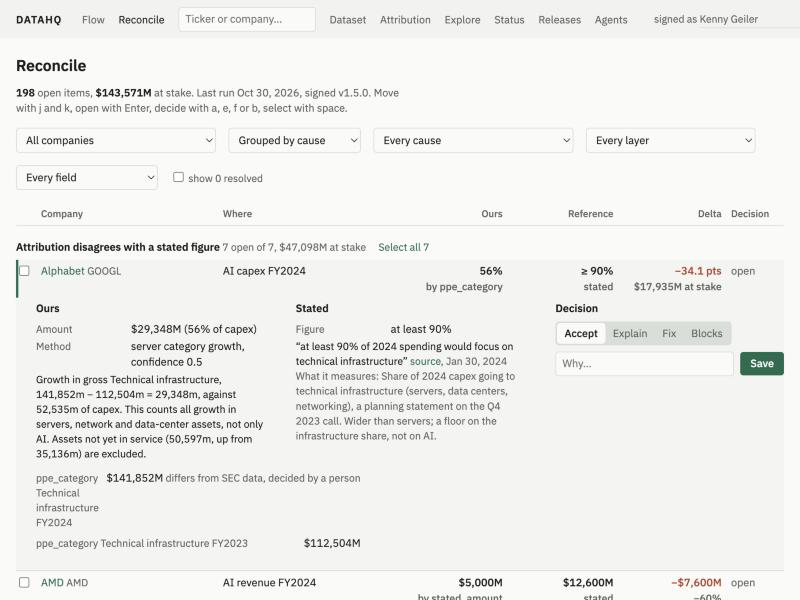
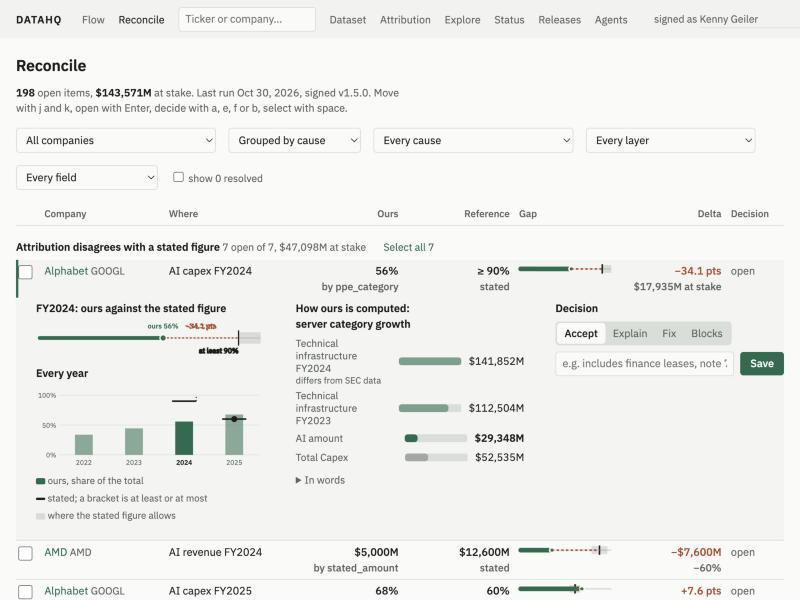
Reconcile: ours against the stated figure as charts, words behind a toggle
Kenny asked for data diffs, not prose. Each row's evidence is now a gauge
(ours as a bar with a dot, the stated figure as a tick with a band for at
least / at most, the gap dashed in red; a small one in every row's Gap
column), a year chart of ours against every stated figure for the company
(bracket markers for floors and ceilings, the row's year highlighted), the
method's inputs, AI amount and total as bars on one scale, cell against tag
against release as bars with the fact across years as paired bars, and
before and after as bars for moves and findings. The basis, the quote and
the finding's message sit behind an "In words" toggle. /api/v1/reconcile
rows carry a series per row (ledger/workbench.py); tests cover it.

diff --git a/ledger/app.html b/ledger/app.html
@@ -193,6 +193,50 @@
   .btn, .seg { transition: transform 120ms cubic-bezier(.23,1,.32,1); }
   .btn:active, .seg:active { transform: scale(.97); }
   .bulk { padding: .6rem .9rem; background: var(--row); border-radius: 6px; }
+  .evgrid { grid-template-columns: minmax(20rem, 26rem) minmax(16rem, 1fr) minmax(16rem, 22rem); }
+  @media (max-width: 70rem) { .evgrid { grid-template-columns: repeat(auto-fit, minmax(min(100%, 18rem), 1fr)); } }
+  .evl { min-width: 0; }
+  svg.gauge { width: 100%; height: auto; display: block; overflow: visible; }
+  svg.gauge.mini { width: 7.5rem; height: .9rem; vertical-align: middle; }
+  td.gapc, th.gapc { width: 8rem; }
+  svg.gauge .track { stroke: var(--faint); stroke-width: 2; }
+  svg.gauge .band { fill: color-mix(in srgb, var(--fg) 12%, transparent); }
+  svg.gauge .ref { stroke: var(--fg); stroke-width: 2; }
+  svg.gauge line.ours { stroke: var(--accent); stroke-width: 6; stroke-linecap: round; }
+  svg.gauge circle.ours { fill: var(--accent); stroke: var(--bg); stroke-width: 2; }
+  svg.gauge .gap { stroke: var(--bad); stroke-width: 2; stroke-dasharray: 3 3; }
+  svg.gauge .lbl { font-size: 11px; fill: var(--muted); }
+  svg.gauge .lbl.ours { fill: var(--accent); font-weight: 600; }
+  svg.gauge .lbl.ref { fill: var(--fg); }
+  svg.gauge .lbl.gap { fill: var(--bad); font-weight: 600; }
+  svg.years { width: 100%; height: auto; display: block; }
+  svg.years .grid { stroke: var(--faint); stroke-width: 1; }
+  svg.years .lbl { font-size: 10.5px; fill: var(--muted); }
+  svg.years .lbl.hl { fill: var(--fg); font-weight: 600; }
+  svg.years rect.ours { fill: var(--accent); opacity: .55; }
+  svg.years rect.ours.hl { opacity: 1; }
+  svg.years rect.ref { fill: var(--muted); opacity: .6; }
+  svg.years .mark { stroke: var(--fg); stroke-width: 2.5; fill: var(--fg); }
+  svg.years .mark.thin { stroke-width: 1.5; stroke-dasharray: 2 3; }
+  .pbars { display: grid; gap: .3rem; }
+  .pb { display: grid; grid-template-columns: minmax(6rem, 9rem) minmax(5rem, 1fr) auto; gap: .6rem; align-items: center; font-size: .84rem; }
+  .pb .l { color: var(--muted); font-size: .8rem; line-height: 1.25; }
+  .pb .track { height: 10px; background: var(--faint); border-radius: 2px; overflow: hidden; }
+  .pb .track i { display: block; height: 100%; background: var(--accent); opacity: .55; }
+  .pb.ours .track i { opacity: 1; }
+  .pb.ref .track i { background: var(--fg); opacity: .55; }
+  .pb.tot .track i { background: var(--muted); opacity: .45; }
+  .pb .v { text-align: right; font-variant-numeric: tabular-nums; white-space: nowrap; }
+  .pb.ours .v { font-weight: 600; }
+  .gapline { margin-top: .4rem; font-size: .9rem; }
+  .lg { display: flex; flex-wrap: wrap; gap: .3rem 1rem; font-size: .76rem; color: var(--muted); margin-top: .4rem; }
+  .lg i { display: inline-block; width: 12px; height: 8px; border-radius: 2px; vertical-align: middle; }
+  .lg i.ours { background: var(--accent); }
+  .lg i.ref { background: var(--muted); }
+  .lg i.mark { background: var(--fg); height: 3px; }
+  .lg i.band { background: color-mix(in srgb, var(--fg) 12%, transparent); }
+  .words summary { cursor: pointer; margin-top: .6rem; }
+  .cellmeta { margin-bottom: .4rem; }
   /* Explore */
   .exc select, .exc input { max-width: 15rem; }
   .plot { min-height: 400px; margin-top: .6rem; }
@@ -978,6 +1022,72 @@ const RES_HELP = {accept: 'the number is right as it stands', explain: 'right, w
 let FOCUS_KEY = null;  // the row to focus after a save re-renders the page
 const num = (r, v) => (v == null ? '—' : r.measure === 'share' ? pct(v) : usd(v));
 const signed = (r, v) => (v == null ? '—' : (v < 0 ? '−' : '+') + (r.measure === 'share' ? `${(100 * Math.abs(v)).toFixed(1)} pts` : usd(Math.abs(v))));
+// ── charts for the evidence: ours against the stated figure, with the fewest words ──
+const NS = 'http://www.w3.org/2000/svg';
+const sv = (tag, attrs = {}, ...kids) => { const el = document.createElementNS(NS, tag); for (const [k, v] of Object.entries(attrs)) if (v != null) el.setAttribute(k, v); for (const c of kids.flat()) if (c != null) el.append(c instanceof Node ? c : document.createTextNode(String(c))); return el; };
+const fmt = (r, v) => (r.measure === 'share' ? pct(v) : usd(v));
+// a gauge: one scale, ours as a bar with a dot, the stated figure as a band (at least / at most) or a tick (equal), the gap in red
+function gauge(r, mini) {
+  const W = mini ? 120 : 360, H = mini ? 14 : 52, y = mini ? 7 : 26, pad = mini ? 2 : 6;
+  const share = r.measure === 'share';
+  const max = share ? 1 : Math.max(Math.abs(r.ours || 0), Math.abs(r.reference || 0)) * 1.15 || 1;
+  const x = (v) => pad + (W - 2 * pad) * Math.max(0, Math.min(1, Math.abs(v) / max));
+  const ref = r.reference, ours = r.ours;
+  const bandFrom = r.relation === 'ge' ? ref : r.relation === 'le' ? 0 : ref, bandTo = r.relation === 'ge' ? max : r.relation === 'le' ? ref : ref;
+  const inside = ours != null && ref != null && (r.relation === 'ge' ? ours >= ref : r.relation === 'le' ? ours <= ref : Math.abs(ours - ref) <= 0.1 * Math.abs(ref));
+  const g = sv('svg', {viewBox: `0 0 ${W} ${H}`, class: 'gauge' + (mini ? ' mini' : ''), role: 'img', 'aria-label': `Ours ${fmt(r, ours)} against ${({ge: 'at least ', le: 'at most '})[r.relation] || ''}${fmt(r, ref)}`});
+  g.append(sv('line', {x1: pad, x2: W - pad, y1: y, y2: y, class: 'track'}));
+  if (ref != null) {
+    if (r.relation === 'eq') g.append(sv('rect', {x: x(ref * 0.9), y: y - (mini ? 5 : 9), width: Math.max(2, x(ref * 1.1) - x(ref * 0.9)), height: mini ? 10 : 18, class: 'band'}), sv('line', {x1: x(ref), x2: x(ref), y1: y - (mini ? 6 : 12), y2: y + (mini ? 6 : 12), class: 'ref'}));
+    else g.append(sv('rect', {x: x(bandFrom), y: y - (mini ? 5 : 9), width: Math.max(2, x(bandTo) - x(bandFrom)), height: mini ? 10 : 18, class: 'band'}), sv('line', {x1: x(ref), x2: x(ref), y1: y - (mini ? 6 : 12), y2: y + (mini ? 6 : 12), class: 'ref'}));
+  }
+  if (ours != null) {
+    g.append(sv('line', {x1: pad, x2: x(ours), y1: y, y2: y, class: 'ours'}), sv('circle', {cx: x(ours), cy: y, r: mini ? 3 : 5, class: 'ours'}));
+    if (ref != null && !inside) { const edge = r.relation === 'ge' ? ref : r.relation === 'le' ? ref : ref; g.append(sv('line', {x1: x(ours), x2: x(edge), y1: y, y2: y, class: 'gap'})); }
+  }
+  if (!mini) {
+    if (ours != null) g.append(sv('text', {x: x(ours), y: y - 15, 'text-anchor': ours > max * 0.85 ? 'end' : 'middle', class: 'lbl ours'}, `ours ${fmt(r, ours)}`));
+    if (ref != null) g.append(sv('text', {x: x(ref), y: y + 24, 'text-anchor': ref > max * 0.85 ? 'end' : ref < max * 0.12 ? 'start' : 'middle', class: 'lbl ref'}, `${({ge: 'at least ', le: 'at most '})[r.relation] || 'stated '}${fmt(r, ref)}`));
+    if (ours != null && ref != null && !inside && Math.abs(x(ours) - x(ref)) >= 80) g.append(sv('text', {x: (x(ours) + x(ref)) / 2, y: y - 15, 'text-anchor': 'middle', class: 'lbl gap'}, signed(r, r.delta)));
+  }
+  return g;
+}
+// horizontal bars on one scale: [{label, value, cls, note}]
+function pairBars(items, measure) {
+  const vals = items.map((i) => Math.abs(i.value || 0)), max = Math.max(1e-9, ...vals);
+  const f = (v) => (v == null ? '—' : measure === 'share' ? pct(v) : usd(v));
+  return h('div', {class: 'pbars'}, items.map((i) => h('div', {class: 'pb ' + (i.cls || '')}, h('span', {class: 'l', title: i.title || null}, i.label, i.note ? h('span', {class: 'muted', style: 'display:block;font-size:.72rem'}, i.note) : ''), h('span', {class: 'track'}, h('i', {style: `width:${(100 * Math.abs(i.value || 0) / max).toFixed(1)}%`})), h('span', {class: 'v'}, f(i.value)))));
+}
+// years across: ours as bars (share, or amount), every stated figure as a marker: a tick for equal, a bracket for at least / at most
+function yearChart(series, {share, highlight, pair} = {}) {
+  const W = 360, H = 130, L = 36, R = 8, T = 14, B = 22;
+  const val = (s) => (pair ? s.value : share ? s.share : s.amount);
+  const refv = (s) => (pair ? s.reference : null);
+  const allVals = series.flatMap((s) => [val(s), refv(s), ...(s.refs || []).filter((r) => (r.measure === 'share') === !!share).map((r) => r.reference)]).filter((v) => v != null);
+  if (!allVals.length) return h('p', {class: 'muted small'}, 'No years to show.');
+  const max = share ? 1 : Math.max(...allVals.map(Math.abs)) * 1.1;
+  const n = series.length, slot = (W - L - R) / n, bw = Math.min(28, slot * (pair ? 0.3 : 0.55));
+  const yv = (v) => T + (H - T - B) * (1 - Math.max(0, Math.min(1, Math.abs(v) / max)));
+  const g = sv('svg', {viewBox: `0 0 ${W} ${H}`, class: 'years', role: 'img', 'aria-label': 'Ours by year with every stated figure'});
+  for (const t of (share ? [0, .5, 1] : [0, .5, 1].map((k) => k * max))) g.append(sv('line', {x1: L, x2: W - R, y1: yv(t), y2: yv(t), class: 'grid'}), sv('text', {x: L - 4, y: yv(t) + 4, 'text-anchor': 'end', class: 'lbl'}, share ? (t ? pct(t) : '0%') : '$' + compact(t)));
+  series.forEach((s, i) => {
+    const cx = L + slot * (i + 0.5), v = val(s);
+    const hl = s.period === highlight;
+    g.append(sv('text', {x: cx, y: H - 6, 'text-anchor': 'middle', class: 'lbl' + (hl ? ' hl' : '')}, s.period.replace('FY', '')));
+    if (v != null) g.append(sv('rect', {x: pair ? cx - bw - 1 : cx - bw / 2, y: yv(v), width: bw, height: yv(0) - yv(v), class: 'ours' + (hl ? ' hl' : '')}, sv('title', {}, `${s.period}: ours ${share ? pct(v) : usd(v)}${s.method ? ', ' + (METHOD[s.method] || s.method) : ''}`)));
+    if (pair && refv(s) != null) g.append(sv('rect', {x: cx + 1, y: yv(refv(s)), width: bw, height: yv(0) - yv(refv(s)), class: 'ref'}, sv('title', {}, `${s.period}: tag ${usd(refv(s))}`)));
+    for (const r of (s.refs || []).filter((r) => (r.measure === 'share') === !!share)) {
+      const y = yv(r.reference);
+      if (r.relation === 'eq') g.append(sv('line', {x1: cx - bw / 2 - 5, x2: cx + bw / 2 + 5, y1: y, y2: y, class: 'mark'}), sv('circle', {cx, cy: y, r: 3.5, class: 'mark'}));
+      else g.append(sv('line', {x1: cx - bw / 2 - 5, x2: cx + bw / 2 + 5, y1: y, y2: y, class: 'mark'}), sv('line', {x1: cx + bw / 2 + 5, x2: cx + bw / 2 + 5, y1: y, y2: r.relation === 'ge' ? T : yv(0), class: 'mark thin'}));
+      g.append(sv('title', {}, `${s.period}: stated ${({ge: 'at least ', le: 'at most '})[r.relation] || ''}${share ? pct(r.reference) : usd(r.reference)}`));
+    }
+  });
+  return g;
+}
+const legend = (...items) => h('div', {class: 'lg'}, items.map(([cls, t]) => h('span', {}, h('i', {class: cls}), ' ', t)));
+const words = (...kids) => h('details', {class: 'words'}, h('summary', {class: 'muted small'}, 'In words'), h('div', {class: 'small', style: 'margin-top:.4rem'}, kids));
+
 async function reconcilePage(view, qs) {
   const q = parseQ(qs || '');
   const scope = q.scope || 'all', group = q.group || 'cause', fCause = q.cause || '', fLayer = q.layer || '', fField = q.field || '', withResolved = q.resolved === '1';
@@ -1011,11 +1121,11 @@ async function reconcilePage(view, qs) {
   const ordered = [...rows].sort((a, b) => (group === 'cause' ? CAUSE_ORDER.indexOf(a.cause) - CAUSE_ORDER.indexOf(b.cause) || b.dollars - a.dollars || a.ticker.localeCompare(b.ticker) : a.name.localeCompare(b.name) || CAUSE_ORDER.indexOf(a.cause) - CAUSE_ORDER.indexOf(b.cause) || b.dollars - a.dollars));
   for (const r of ordered) groups.set(keyOf(r), [...(groups.get(keyOf(r)) || []), r]);
   const tbody = h('tbody');
-  const head = h('tr', {}, h('th', {style: 'width:1.6rem'}, h('span', {class: 'sr'}, 'Select')), h('th', {}, group === 'cause' ? 'Company' : 'Cause'), h('th', {}, 'Where'), h('th', {class: 'n'}, 'Ours'), h('th', {class: 'n'}, 'Reference'), h('th', {class: 'n'}, 'Delta'), h('th', {}, 'Decision'));
+  const head = h('tr', {}, h('th', {style: 'width:1.6rem'}, h('span', {class: 'sr'}, 'Select')), h('th', {}, group === 'cause' ? 'Company' : 'Cause'), h('th', {}, 'Where'), h('th', {class: 'n'}, 'Ours'), h('th', {class: 'n'}, 'Reference'), h('th', {class: 'gapc'}, 'Gap'), h('th', {class: 'n'}, 'Delta'), h('th', {}, 'Decision'));
   for (const [g, list] of groups) {
     const label = group === 'cause' ? list[0].cause_label.replace(/:.*$/, '') : `${list[0].name} ${list[0].ticker}`;
     const open = list.filter((r) => !r.resolution || r.resolution.state === 'fix' || r.resolution.state === 'blocks');
-    tbody.append(h('tr', {class: 'grp'}, h('td', {colspan: 7}, h('span', {class: 'gl'}, label), h('span', {class: 'muted small'}, ` ${int(open.length)} open of ${int(list.length)}${list.some((r) => r.dollars) ? `, ${usd(list.reduce((s, r) => s + r.dollars, 0))} at stake` : ''}`),
+    tbody.append(h('tr', {class: 'grp'}, h('td', {colspan: 8}, h('span', {class: 'gl'}, label), h('span', {class: 'muted small'}, ` ${int(open.length)} open of ${int(list.length)}${list.some((r) => r.dollars) ? `, ${usd(list.reduce((s, r) => s + r.dollars, 0))} at stake` : ''}`),
       open.length > 1 ? h('button', {type: 'button', class: 'small', style: 'margin-left:1rem', onclick: () => { for (const r of open) selected.add(r.key); paint(); }}, `Select all ${int(open.length)}`) : '')));
     for (const r of list) {
       const i = trs.length;
@@ -1028,7 +1138,7 @@ async function reconcilePage(view, qs) {
         h('td', {}, cb), h('td', {}, first), h('td', {}, where),
         h('td', {class: 'n'}, num(r, r.ours), r.ours_label ? h('div', {class: 'muted small'}, r.ours_label) : ''),
         h('td', {class: 'n'}, r.reference == null ? h('span', {class: 'muted'}, '—') : [({ge: '≥ ', le: '≤ '})[r.relation] || '', num(r, r.reference)], r.ref_label && r.reference != null ? h('div', {class: 'muted small'}, r.ref_label) : ''),
-        h('td', {class: 'n'}, delta), h('td', {}, res));
+        h('td', {class: 'gapc'}, r.ours != null && r.reference != null ? gauge(r, true) : ''), h('td', {class: 'n'}, delta), h('td', {}, res));
       trs.push({tr, r, detail: null});
       tbody.append(tr);
     }
@@ -1039,7 +1149,7 @@ async function reconcilePage(view, qs) {
     const t = trs[i]; cur = i; paintCur();
     if (t.detail && force !== true) { t.detail.remove(); t.detail = null; t.tr.setAttribute('aria-expanded', 'false'); return; }
     if (t.detail) return;
-    t.detail = h('tr', {class: 'ev'}, h('td', {colspan: 7}, evidence(t.r)));
+    t.detail = h('tr', {class: 'ev'}, h('td', {colspan: 8}, evidence(t.r)));
     t.tr.after(t.detail); t.tr.setAttribute('aria-expanded', 'true');
   }
   function keys(e, i) {
@@ -1071,33 +1181,42 @@ async function reconcilePage(view, qs) {
     return h('div', {class: 'resform'}, h('div', {class: 'segs', role: 'group', 'aria-label': 'Decision'}, btns), reason, save, status);
   }
   function evidence(r) {
-    const E = r.evidence || {}, left = [], right = [];
-    const kv = (k, v) => h('div', {class: 'kv2'}, h('span', {class: 'muted small'}, k), h('span', {}, v));
+    const E = r.evidence || {}, S = r.series || [], left = [], mid = [];
     if (r.cause === 'reference_disagrees') {
-      left.push(h('h3', {}, 'Ours'), kv('Amount', [usd(E.ours_amount), E.ours_share != null ? ` (${pct(E.ours_share)} of capex)` : '']), kv('Method', `${METHOD[r.ours_label.replace('by ', '')] || r.ours_label.replace('by ', '')}, confidence ${E.confidence ?? '—'}`), E.basis ? h('p', {class: 'small brk'}, E.basis) : '');
-      if (E.inputs && E.inputs.length) left.push(h('div', {class: 'inputs'}, h('div', {class: 'muted small'}, 'Inputs'), E.inputs.map((i) => h('div', {class: 'kv2'}, h('span', {class: 'small'}, i.what), h('span', {}, i.value != null ? usd(i.value) : i.share != null ? pct(i.share) : h('span', {class: 'muted'}, 'words only'), i.check && i.check !== 'agree' ? h('div', {class: 'muted small'}, XBRL[i.check] || i.check) : '')))));
-      right.push(h('h3', {}, 'Stated'), kv('Figure', [({ge: 'at least ', le: 'at most '})[r.relation] || '', num(r, r.reference)]), E.quote ? h('p', {class: 'small'}, `“${E.quote}” `, E.url ? h('a', {href: E.url, target: '_blank', rel: 'noopener'}, 'source') : '', E.source_date ? h('span', {class: 'muted'}, `, ${day(E.source_date)}`) : '') : '', E.reference_basis ? h('p', {class: 'muted small brk'}, `What it measures: ${E.reference_basis}`) : '');
+      left.push(h('h3', {}, `${r.period}: ours against the stated figure`), gauge(r), h('h3', {style: 'margin-top:.9rem'}, 'Every year'), yearChart(S, {share: r.measure === 'share', highlight: r.period}),
+        legend(['ours', 'ours' + (r.measure === 'share' ? ', share of the total' : '')], ['mark', 'stated; a bracket is at least or at most'], ['band', 'where the stated figure allows']));
+      const inputs = (E.inputs || []).map((i) => ({label: i.what, title: i.field, value: i.value, cls: 'in', note: i.check && i.check !== 'agree' ? 'differs from SEC data' : ''}));
+      const yr = S.find((s) => s.period === r.period) || {};
+      mid.push(h('h3', {}, `How ours is computed: ${METHOD[(r.ours_label || '').replace('by ', '')] || r.ours_label}`),
+        pairBars([...inputs, {label: 'AI amount', value: E.ours_amount, cls: 'ours'}, yr.total != null ? {label: `Total ${LABEL[r.field.replace('ai_', '')] || r.field.replace('ai_', '')}`, value: yr.total, cls: 'tot'} : null].filter(Boolean)),
+        words(E.basis ? h('p', {class: 'brk'}, E.basis) : '', E.quote ? h('p', {style: 'margin-top:.4rem'}, `“${E.quote}” `, E.url ? h('a', {href: E.url, target: '_blank', rel: 'noopener'}, 'source') : '', E.source_date ? h('span', {class: 'muted'}, `, ${day(E.source_date)}`) : '') : '', E.reference_basis ? h('p', {class: 'muted', style: 'margin-top:.4rem'}, E.reference_basis) : ''));
     } else if (r.cause === 'fact_differs') {
       const c = E.cell;
-      left.push(h('h3', {}, 'The cited cell'), c ? [kv('Cell', h('b', {}, c.cell_text)), kv('Row', c.row_label), kv('Column', (c.column_label || '').replaceAll(' | ', ' ')), kv('Table', c.table_id)] : h('p', {class: 'muted small'}, 'No citation on record.'),
-        E.png ? h('img', {src: E.png, alt: `Screenshot of the cited cell ${c ? c.cell_text : ''}`, loading: 'lazy', class: 'shot'}) : '', E.url ? h('a', {href: E.url, target: '_blank', rel: 'noopener', class: 'small'}, 'Open the 10-K') : '');
-      right.push(h('h3', {}, 'The filing’s tag'), kv('XBRL', usd(r.reference)), E.release_value != null ? kv(`In ${d.release}`, usd(E.release_value)) : '', E.used_by && E.used_by.length ? kv('Feeds', E.used_by.map((u) => `${LABEL[u.field] || u.field} ${u.period} ${usd(u.ai_amount)} (${METHOD[u.method] || u.method})`).join('; ')) : kv('Feeds', 'no attribution'),
-        h('p', {class: 'muted small'}, 'Usually a definition: which table or total the tag measures. A definition is applied every run.'), h('a', {href: '#attribution', class: 'small'}, 'The model'));
+      left.push(h('h3', {}, `${r.period}: the cited cell against the filing’s tag`),
+        pairBars([{label: 'Cited cell', value: r.ours, cls: 'ours'}, {label: 'XBRL tag', value: r.reference, cls: 'ref'}, E.release_value != null ? {label: `In ${d.release}`, value: Number(E.release_value), cls: 'tot'} : null].filter(Boolean)),
+        h('div', {class: 'gapline'}, h('span', {class: 'delta bad'}, signed(r, r.delta)), r.delta_pct != null ? h('span', {class: 'muted small'}, ` ${r.delta_pct < 0 ? '−' : '+'}${(100 * Math.abs(r.delta_pct)).toFixed(1)}%`) : ''),
+        S.length > 1 ? [h('h3', {style: 'margin-top:.9rem'}, 'Every year, cell against tag'), yearChart(S, {pair: true, highlight: r.period}), legend(['ours', 'cited cell'], ['ref', 'XBRL tag'])] : '');
+      mid.push(h('h3', {}, 'The cell'), c ? h('div', {class: 'cellmeta'}, h('b', {}, c.cell_text), h('span', {class: 'muted small'}, ` row “${c.row_label}”, column “${(c.column_label || '').replaceAll(' | ', ' ')}”, ${c.table_id}`)) : h('p', {class: 'muted small'}, 'No citation on record.'),
+        E.png ? h('img', {src: E.png, alt: `Screenshot of the cited cell ${c ? c.cell_text : ''}`, loading: 'lazy', class: 'shot'}) : '',
+        E.used_by && E.used_by.length ? [h('h3', {style: 'margin-top:.8rem'}, 'Feeds'), pairBars(E.used_by.map((u) => ({label: `${LABEL[u.field] || u.field} ${u.period}`, value: u.ai_amount, cls: 'ours', note: METHOD[u.method] || u.method})))] : '',
+        h('div', {class: 'row', style: 'margin-top:.6rem;gap:.8rem'}, E.url ? h('a', {href: E.url, target: '_blank', rel: 'noopener', class: 'small'}, 'Open the 10-K') : '', h('a', {href: '#attribution', class: 'small'}, 'The model')));
     } else if (r.cause === 'attribution_moved') {
-      left.push(h('h3', {}, 'Before the load'), kv('Method', METHOD[E.before[0]] || E.before[0] || '—'), kv('Amount', usd(E.before[1])));
-      right.push(h('h3', {}, 'After'), kv('Method', METHOD[E.after[0]] || E.after[0] || '—'), kv('Amount', usd(E.after[1])), h('a', {href: `#data?t=${r.ticker}&f=ai_capex,capex`, class: 'small'}, 'The dataset'));
+      left.push(h('h3', {}, `${r.period}: before and after the load`), pairBars([{label: `Before, ${METHOD[E.before[0]] || E.before[0] || '—'}`, value: E.before[1], cls: 'ref'}, {label: `After, ${METHOD[E.after[0]] || E.after[0] || '—'}`, value: E.after[1], cls: 'ours'}]),
+        h('div', {class: 'gapline'}, h('span', {class: 'delta'}, signed(r, r.delta))));
+      mid.push(h('a', {href: `#data?t=${r.ticker}&f=ai_capex,capex`, class: 'small'}, 'The dataset'));
     } else if (r.cause === 'fact_changed') {
-      left.push(h('h3', {}, 'Now'), kv('Value', usd(r.ours)), E.dimension ? kv('Dimension', E.dimension) : '');
-      right.push(h('h3', {}, `In ${E.release || 'the release'}`), kv('Value', usd(r.reference)), h('p', {class: 'muted small'}, 'Ships in the next release; the change note lists it.'));
+      left.push(h('h3', {}, `${r.period}: now against ${E.release || 'the release'}`), pairBars([{label: 'Now', value: r.ours, cls: 'ours'}, {label: E.release || 'Release', value: r.reference, cls: 'ref'}]), h('div', {class: 'gapline'}, h('span', {class: 'delta'}, signed(r, r.delta))));
+      mid.push(h('p', {class: 'muted small'}, 'Ships in the next release; the change note lists it.'));
     } else if (r.cause === 'finding_unconfirmed' || r.cause === 'blocked') {
-      left.push(h('h3', {}, r.cause_label), h('p', {class: 'small brk'}, E.message || ''), E.size != null && E.kind === 'jump' ? kv('Size', `${Number(E.size).toFixed(1)}×`) : E.size != null && E.kind === 'restated' ? kv('Size', pct(E.size)) : '');
-      right.push(h('a', {href: `#data?t=${r.ticker}&f=${r.field || 'capex'},capex`, class: 'small'}, 'The dataset, with every citation'));
+      if (r.measure) left.push(h('h3', {}, r.cause_label.replace(/:.*$/, '')), pairBars([{label: r.ref_label || 'before', value: r.reference, cls: 'ref'}, {label: r.ours_label || 'after', value: r.ours, cls: 'ours'}]), h('div', {class: 'gapline'}, h('span', {class: 'delta'}, signed(r, r.delta)), E.kind === 'jump' && E.size != null ? h('span', {class: 'muted small'}, ` ${Number(E.size).toFixed(1)}×`) : ''));
+      if (S.length > 1) left.push(h('h3', {style: 'margin-top:.9rem'}, `${LABEL[r.field] || r.field} by year`), yearChart(S, {pair: true, highlight: r.period}));
+      mid.push(words(h('p', {class: 'brk'}, E.message || '')), h('a', {href: `#data?t=${r.ticker}&f=${r.field || 'capex'},capex`, class: 'small'}, 'The dataset, with every citation'));
     } else if (r.cause === 'new_filing') {
       left.push(h('h3', {}, `${E.form} filed ${day(E.filed)}`), h('a', {href: E.url, target: '_blank', rel: 'noopener', class: 'small'}, 'Open at the SEC'));
-      right.push(h('a', {href: '#run', class: 'small'}, 'Run it'));
+      mid.push(h('a', {href: '#run', class: 'small'}, 'Run it'));
     }
     const resBox = h('div', {}, h('h3', {}, 'Decision'), r.resolution ? h('p', {class: 'small', style: 'margin-bottom:.5rem'}, `${RES_LABEL[r.resolution.state]} by ${r.resolution.by}, ${day(r.resolution.at)}: ${r.resolution.reason}`) : '', resolutionForm(r));
-    return h('div', {class: 'evgrid'}, h('h2', {class: 'sr'}, 'Evidence and decision'), h('div', {}, left), h('div', {}, right), resBox);
+    return h('div', {class: 'evgrid'}, h('h2', {class: 'sr'}, 'Evidence and decision'), h('div', {class: 'evl'}, left), h('div', {}, mid), resBox);
   }
   view.append(h('div', {class: 'stack', style: 'gap:1rem'}, h('header', {class: 'pagehead'}, h('h1', {}, 'Reconcile'), lede), controls, bulk,
     rows.length ? h('div', {class: 'scroll'}, h('table', {class: 'wbt'}, h('thead', {}, head), tbody)) : h('p', {class: 'msg'}, 'Nothing open for this scope.'),

diff --git a/ledger/workbench.py b/ledger/workbench.py
@@ -30,7 +30,7 @@ def _inputs(con, ids: str) -> list[dict]:
         try:
             if kind == "fact" and len(parts) == 4:
                 r = con.execute("select value, label from facts where ticker=? and field=? and dimension=? and period=?", parts).fetchone()
-                out.append({"id": i, "what": f"{parts[2]} {parts[3]} ({parts[1]})".replace("  ", " ").replace(" (", " (").replace("( ", "("), "value": r[0] if r else None, "check": r[1] if r else None})
+                out.append({"id": i, "what": f"{parts[2]} {parts[3]}".strip(), "field": parts[1], "value": r[0] if r else None, "check": r[1] if r else None})
             elif kind == "stmt":  # a statement the attributor used: its quote and amount
                 r = con.execute("select amount_low, amount_high, share, quote, source, period from ai_statements where statement_id = ?", [rest]).fetchone()
                 amt = (r[0] + r[1]) / 2 if r and r[0] is not None and r[1] is not None else None
@@ -38,12 +38,43 @@ def _inputs(con, ids: str) -> list[dict]:
                             "share": r[2] if r else None})
             elif kind == "value" and len(parts) == 3:
                 r = con.execute('select value, label from "values" where ticker=? and field=? and period=?', parts).fetchone()
-                out.append({"id": i, "what": f"{parts[1]} {parts[2]}", "value": r[0] if r else None, "check": r[1] if r else None})
+                out.append({"id": i, "what": f"{parts[1]} {parts[2]}", "field": parts[1], "value": r[0] if r else None, "check": r[1] if r else None})
             else:
                 out.append({"id": i, "what": i, "value": None, "check": None})
         except Exception:  # a malformed id never breaks the page
             out.append({"id": i, "what": i, "value": None, "check": None})
     return out
+
+
+def _attribution_series(con, ticker: str, field: str, refs: list[dict]) -> list[dict]:
+    """Ours by year (amount, share, the total it is a share of, method) with every stated figure for that year."""
+    cur = con.execute("select period, ai_amount, ai_share, method, kind from attribution where ticker = ? and field = ? and kind = 'actual' and ai_amount is not null order by period", [ticker, field])
+    ours = {r[0]: {"period": r[0], "amount": r[1], "share": r[2], "method": r[3]} for r in cur.fetchall()}
+    totals = {r[0]: r[1] for r in con.execute('select period, value from "values" where ticker = ? and field = ? and value is not null', [ticker, field]).fetchall()}
+    out = {}
+    for p in sorted(set(ours) | {r["period"] for r in refs} | set(totals)):
+        out[p] = {"period": p, "amount": ours.get(p, {}).get("amount"), "share": ours.get(p, {}).get("share"), "method": ours.get(p, {}).get("method"), "total": totals.get(p), "refs": []}
+    for r in refs:
+        out[r["period"]]["refs"].append({"measure": r["measure"], "relation": r["relation"], "reference": r["reference"], "outcome": r["outcome"], "source": (r.get("source") or {}).get("kind")})
+    return list(out.values())
+
+
+def _fact_series(con, ticker: str, field: str, dimension: str) -> list[dict]:
+    """The same fact across years: our cited value and the filing's tag."""
+    cur = con.execute("select period, value, reference, label from facts where ticker = ? and field = ? and coalesce(dimension, '') = ? order by period", [ticker, field, dimension])
+    return [{"period": r[0], "value": r[1], "reference": _num(r[2]), "label": r[3]} for r in cur.fetchall()]
+
+
+def _value_series(con, ticker: str, field: str) -> list[dict]:
+    cur = con.execute('select period, value, label from "values" where ticker = ? and field = ? order by period', [ticker, field])
+    return [{"period": r[0], "value": r[1], "reference": None, "label": r[2]} for r in cur.fetchall()]
+
+
+def _num(x):
+    try:
+        return None if x in (None, "") else float(x)
+    except (TypeError, ValueError):
+        return None
 
 
 def items(con, flow: dict) -> dict:
@@ -56,6 +87,9 @@ def items(con, flow: dict) -> dict:
         cur = con.execute("select ticker, field, period, kind, method, ai_amount, ai_share, basis, inputs, confidence from attribution where ticker in (select unnest(?))", [tickers])
         for r in cur.fetchall():
             attr[(r[0], r[1], r[2], r[3])] = dict(zip([c[0] for c in cur.description], r))
+    evrows = {}
+    for r in ((flow.get("insight") or {}).get("evaluation") or {}).get("rows", []):
+        evrows.setdefault((r["ticker"], r.get("field", "capex")), []).append(r)
     rows = []
     for q in flow["queue"]:
         d = q.get("detail") or {}
@@ -68,12 +102,14 @@ def items(con, flow: dict) -> dict:
             a = attr.get((q["ticker"], d.get("field", "capex"), d.get("period"), "actual"), {})
             row |= {"field": f"ai_{d.get('field', 'capex')}", "period": d.get("period"), "measure": d.get("measure"), "ours": d.get("ours"), "reference": d.get("reference"), "relation": d.get("relation", "eq"),
                     "ours_label": f"by {d.get('method')}"}
+            row["series"] = _attribution_series(con, q["ticker"], d.get("field", "capex"), evrows.get((q["ticker"], d.get("field", "capex")), []))
             row["evidence"] = {"quote": (d.get("source") or {}).get("quote"), "url": (d.get("source") or {}).get("url"), "source_kind": (d.get("source") or {}).get("kind"), "source_date": (d.get("source") or {}).get("date"),
                                "reference_basis": d.get("basis"), "basis": a.get("basis"), "inputs": _inputs(con, a.get("inputs", "")), "confidence": a.get("confidence"),
                                "ours_amount": a.get("ai_amount"), "ours_share": a.get("ai_share")}
         elif q["kind"] == "fact_differs":
             c = d.get("cite") or {}
             row |= {"field": d.get("field"), "period": d.get("period"), "measure": "usd", "ours": d.get("value"), "reference": d.get("reference"), "ours_label": "cited cell"}
+            row["series"] = _fact_series(con, q["ticker"], d.get("field"), d.get("dimension") or "")
             row["evidence"] = {"cell": {k: c.get(k) for k in ("table_id", "row_label", "column_label", "cell_text", "accession")} if c else None, "png": _png(c.get("extraction_id")),
                                "url": d.get("url"), "used_by": d.get("used_by") or [], "release_value": d.get("release_value"), "dimension": d.get("dimension")}
         elif q["kind"] == "fact_changed":
@@ -93,6 +129,8 @@ def items(con, flow: dict) -> dict:
                     "ref_label": {"restated": "earlier filing", "jump": "year before", "opex_over_revenue": "revenue"}.get(k),
                     "cause_label": {"restated": "Restated: the SEC's data can't confirm", "jump": "Big move: the SEC's data can't confirm", "row_switch": "Line renamed across filings",
                                     "capex_intensity": "Capex high against revenue", "opex_over_revenue": "Opex above revenue"}.get(k, row["cause_label"])}
+            if d.get("field"):
+                row["series"] = _value_series(con, q["ticker"], d["field"])
             row["evidence"] = {"message": d.get("message"), "kind": k, "size": d.get("size")}
         elif q["kind"] == "blocked":
             row |= {"field": d.get("field"), "period": d.get("period"), "measure": "usd" if d.get("value") is not None else None, "ours": d.get("value")}

diff --git a/tests/test_workbench.py b/tests/test_workbench.py
@@ -6,14 +6,16 @@ from ledger import views, workbench
 
 
 def _flow(queue):
-    return {"scope": "all", "names": {"GOOGL": "Alphabet", "IRM": "Iron Mountain"}, "release": {"last": "v1.5.0"}, "changed": {"last_run": "2026-10-30T00:00:00"}, "queue": queue, "noise": 2}
+    return {"scope": "all", "names": {"GOOGL": "Alphabet", "IRM": "Iron Mountain"}, "release": {"last": "v1.5.0"}, "changed": {"last_run": "2026-10-30T00:00:00"}, "queue": queue, "noise": 2,
+            "insight": {"evaluation": {"rows": [{"ticker": "GOOGL", "field": "capex", "period": "FY2025", "measure": "share", "relation": "eq", "reference": 0.6, "outcome": "disagree", "source": {"kind": "company_statement"}}]}}}
 
 
 def _con():
     con = duckdb.connect()
-    con.execute("create table facts (ticker text, field text, dimension text, period text, value double, label text)")
-    con.execute("insert into facts values ('GOOGL','ppe_category','Technical infrastructure','FY2025',141852e6,'unresolved'), ('GOOGL','ppe_category','Technical infrastructure','FY2024',112504e6,'agree')")
+    con.execute("create table facts (ticker text, field text, dimension text, period text, value double, label text, reference text)")
+    con.execute("insert into facts values ('GOOGL','ppe_category','Technical infrastructure','FY2025',141852e6,'unresolved','139596000000'), ('GOOGL','ppe_category','Technical infrastructure','FY2024',112504e6,'agree','112504000000')")
     con.execute('create table "values" (ticker text, field text, period text, value double, label text)')
+    con.execute("insert into \"values\" values ('GOOGL','capex','FY2025',91447e6,'agree'), ('GOOGL','capex','FY2024',52535e6,'agree')")
     con.execute("create table attribution (ticker text, field text, period text, kind text, method text, ai_amount double, ai_share double, basis text, inputs text, confidence double)")
     con.execute("insert into attribution values ('GOOGL','capex','FY2025','actual','ppe_category',29348e6,0.5586,'growth in technical infrastructure','fact:GOOGL|ppe_category|Technical infrastructure|FY2025,fact:GOOGL|ppe_category|Technical infrastructure|FY2024',0.5)")
     return con
@@ -33,6 +35,11 @@ class Workbench(unittest.TestCase):
         self.assertEqual(r["evidence"]["inputs"][0]["check"], "unresolved")
         self.assertEqual(out["open"], 1)
         self.assertEqual(out["causes"][0]["cause"], "reference_disagrees")
+        years = {y["period"]: y for y in r["series"]}
+        self.assertEqual(years["FY2025"]["total"], 91447e6)
+        self.assertEqual(years["FY2025"]["amount"], 29348e6)
+        self.assertEqual(years["FY2024"]["amount"], None)  # no attribution row that year, still a year on the chart
+        self.assertEqual(years["FY2025"]["refs"][0]["reference"], 0.6)
 
     def test_fact_differs_row_carries_cell_and_delta(self):
         q = {"kind": "fact_differs", "state": "disagrees", "ticker": "GOOGL", "where": "ppe_category Technical infrastructure FY2025", "impact": "x", "dollars": 0, "new": False, "action": "definition", "key": "k2", "hash": "h2",
@@ -45,6 +52,7 @@ class Workbench(unittest.TestCase):
         self.assertEqual(r["delta"], 2256e6)
         self.assertAlmostEqual(r["delta_pct"], 2256 / 139596)
         self.assertEqual(out["open"], 0)  # accepted: not open
+        self.assertEqual([(y["period"], y["reference"]) for y in r["series"]], [("FY2024", 112504e6), ("FY2025", 139596e6)])
 
     def test_finding_rows_get_numbers_only_when_numeric(self):
         qs = [{"kind": "finding_unconfirmed", "state": "look", "ticker": "IRM", "where": "opex FY2024", "impact": "x", "action": "open", "key": "k3", "hash": "h3", "resolution": None,

diff --git a/README.md b/README.md
@@ -8,7 +8,9 @@ New here, person or agent? Read [docs/HANDOFF.md](docs/HANDOFF.md) first: what a
 
 *Updated with every commit.*
 
-**Last done (30 Oct 2026, evening):** Reconcile and Explore in DATAHQ (`docs/DATAHQ.md`, "Reconcile and Explore"), after Kenny said the charts could not be manipulated and the cleaning queue was too hard to reconcile. **Reconcile** (`#reconcile`, `/api/v1/reconcile`, `ledger/workbench.py`): one row per open item with ours, reference, delta and decision side by side, grouped by cause or company, filtered by cause, layer, field; Enter opens the evidence under the row (method, inputs with values, cited cell and screenshot, quote with source); Accept / Explain / Fix / Blocks with a reason inline; j, k, Enter, a, e, f, b, space on the keyboard; select many and resolve with one reason (`/api/resolve/bulk`). **Explore** (`#explore`, replaces Views): measure, field, kind, layer, tickers, years, then x, series and type (bars, stacked, lines, share of total) on Plotly: hover, legend toggle, drag zoom, click a bar for the rows behind it; more than eight series fold into Other, a series keeps its colour; Save as view stores the chart spec (`show: chart`, `views.py`) and a saved view is still `/api/v1/views/<id>/data`. **Flow five seconds to 0.3 s:** the scorecard ran every query twice and scanned the runs table; fixed, and `flow()` is cached by scope until anything it reads changes. Tests 162 (workbench rows, chart views). Screenshots `reports/evidence/datahq/{reconcile,explore}.png`.
+**Last done (30 Oct 2026, night):** Reconcile made visual, after Kenny asked for data diffs instead of words: a gauge of ours against the stated figure (band for at least / at most, tick for equal, gap in red) on every row and large under it; a year chart of ours against every stated figure for the company; the method's inputs, AI amount and total as bars on one scale; cell against tag against release as bars, the fact across years as paired bars; before and after as bars for moves and findings; the words behind an "In words" toggle. `/api/v1/reconcile` rows carry `series` (`ledger/workbench.py`). Tests 162, series covered.
+
+**Before that (30 Oct, evening):** Reconcile and Explore in DATAHQ (`docs/DATAHQ.md`, "Reconcile and Explore"), after Kenny said the charts could not be manipulated and the cleaning queue was too hard to reconcile. **Reconcile** (`#reconcile`, `/api/v1/reconcile`, `ledger/workbench.py`): one row per open item with ours, reference, delta and decision side by side, grouped by cause or company, filtered by cause, layer, field; Enter opens the evidence under the row (method, inputs with values, cited cell and screenshot, quote with source); Accept / Explain / Fix / Blocks with a reason inline; j, k, Enter, a, e, f, b, space on the keyboard; select many and resolve with one reason (`/api/resolve/bulk`). **Explore** (`#explore`, replaces Views): measure, field, kind, layer, tickers, years, then x, series and type (bars, stacked, lines, share of total) on Plotly: hover, legend toggle, drag zoom, click a bar for the rows behind it; more than eight series fold into Other, a series keeps its colour; Save as view stores the chart spec (`show: chart`, `views.py`) and a saved view is still `/api/v1/views/<id>/data`. **Flow five seconds to 0.3 s:** the scorecard ran every query twice and scanned the runs table; fixed, and `flow()` is cached by scope until anything it reads changes. Tests 162 (workbench rows, chart views). Screenshots `reports/evidence/datahq/{reconcile,explore}.png`.
 
 **Before that (30 Oct, late afternoon):** a read-only role for Arctal on the production Postgres: `arctal_reader` (login, no superuser / createdb / createrole), CONNECT on the database, USAGE on `public`, SELECT on every table and view there, default privileges so the tables a future `ledger publish` creates are readable too, `default_transaction_read_only = on` and a 60-second statement timeout. Checked as that role: reads every `current_*` view and `ledger_releases`; INSERT, DELETE, CREATE TABLE and DROP VIEW refused, also after the role lifts the read-only setting itself (no grant lets it write). Its connection string is `DATABASE_READONLY_URL` in `.env` (git-ignored, never printed); that is the string to hand Arctal. The password was generated locally and exists only there; rotate with `alter role arctal_reader password '…'` as the owner and update `.env`.
 

diff --git a/docs/DATAHQ.md b/docs/DATAHQ.md
@@ -108,3 +108,14 @@ neutrals, both themes.
 and one of them scanned the runs table; both fixed, and `flow()` is cached by scope until anything it reads changes
 (database, resolutions, diff, evaluation, releases, companies, evidence). Cold 0.3 s, warm instant.
 
+**Reconcile, second pass (30 Oct, later):** Kenny: "more structured for ours vs stated, instead of leaning on words,
+show me more data diffs and make it 95% visual." The evidence under a row is now charts, with the words behind an
+"In words" toggle. A gauge on one scale: ours as a bar with a dot, the stated figure as a tick with a band for
+where it allows (at least, at most, or within a tenth of equal), the gap dashed in red; a small one sits in every
+row's Gap column. A year chart: ours by year as bars (share of the total, or the amount), every stated figure for
+that company as a marker, a bracket when it is a floor or a ceiling, the row's year highlighted. The method's
+arithmetic as bars on one scale: each input with its value and whether it agrees with the SEC's data, the AI
+amount, the total it is a share of. A fact row shows the cited cell against the tag and the signed release as
+three bars, and the same fact across years as paired bars. Moves and findings show before and after as two bars.
+`/api/v1/reconcile` carries a `series` per row for the year charts.
+
